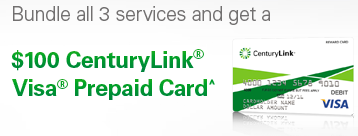
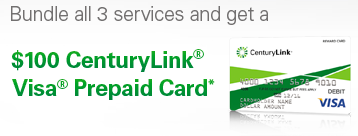
reverting back to BS

diff --git a/offers/threeyears/disclaimer.html b/offers/threeyears/disclaimer.html
@@ -20,7 +20,7 @@
 		<strong>Offer ends 7/23/2014. New DIRECTV customers and residential CenturyLink<sup>&reg;</sup> customers only. The CenturyLink 3-Year Triple Play Price Guarantee Offer applies only to the monthly recurring charge for the three listed services for thirty-six consecutive months (after which the standard monthly recurring rate will apply to each service); excludes all taxes, fees, surcharges, monthly recurring fees for modem/router, professional installation charges, DIRECTV equipment charges, and any additional charges including DIRECTV programming, premium, Pay Per View, Video On Demand, or feature or service charges. The offer includes CenturyLink<sup>&reg;</sup> High-Speed Internet service (up to 12 Mbps), CenturyLink<sup>&reg;</sup> Home Phone with  Unlimited Nationwide Calling and qualifying DIRECTV and one of the following, qualifying DIRECTV Packages: ENTERTAINMENT, CHOICE, XTRA, ULTIMATE, or PREMIER. Offer requires customer to remain in good standing and terminates if customer changes their account in any manner including any change to the required CenturyLink or DIRECTV services (cancelled, upgraded, downgraded), telephone number change, or change of physical location of any installed service (including customer moving from residence of installed services). One offer only per account. An additional monthly or flat fee, installation fee, and separate shipping and handling fee may apply to customer&rsquo;s modem or router, depending on HSI package and options selected. Offer cannot be combined with any other offers. General &ndash;</strong> Services and offers not available everywhere. CenturyLink may change, cancel, or substitute offers and services, including Price Guarantee Offer, or vary them by service area, at its sole discretion without notice. Requires credit approval and deposit may be required. Additional restrictions apply. <strong>Terms and Conditions &ndash;</strong> All products and services listed are governed by tariffs, terms of service, or terms and conditions posted at centurylink.com. <strong>Taxes, Fees, and Surcharges &ndash;</strong> Applicable taxes, fees, and surcharges include a Carrier Universal Service Charge, National Access Fee or Carrier Cost Recovery surcharge, a one-time High-Speed Internet activation fee, a one-time voice service activation fee, and state and local fees that vary by area and certain in-state surcharges. Cost recovery fees are not taxes or government-required charges for use. Taxes, fees, and surcharges apply based on standard monthly, not promotional, rates. Call for a listing of applicable taxes, fees, and surcharges. <strong>Monthly Rate &ndash;</strong> Monthly rate applies while customer subscribes to all qualifying services. If one or more services are cancelled, the standard monthly fee will apply to each remaining service. <strong>High-Speed Internet &ndash;</strong> Customers must accept High-Speed Internet Subscriber Agreement prior to using service. Listed broadband speeds vary due to conditions outside of network control, including customer location and equipment, and are not guaranteed. <strong>Private, Direct Connection and Speed Claims &ndash;</strong> Direct connection and/or speed claims are based on providing High-Speed Internet customers with a dedicated, virtual-circuit connection between their homes and the CenturyLink central office. <strong>Home Phone with Unlimited Nationwide Calling &ndash;</strong> Service applies to one residential phone line with direct-dial, local and nationwide long distance voice calling from home phone, including Alaska, Puerto Rico, Guam, and U.S. Virgin Islands; excludes commercial use, call center, data and facsimile services (including dial-up Internet connections, data services, and facsimile; each may be billed at $0.10/minute), conference lines, directory and operator assistance, chat lines, pay-per-call, calling card use, or multi-housing units. Usage will be monitored for compliance and service may be suspended/terminated for noncompliance. An additional charge may be assessed to customer if usage consistently exceeds 5,000 minutes/mo. International calling billed separately. <strong>Norton&trade; AntiVirus Online &ndash;</strong> With these services, customer receives the right to use the products on the specified number of PCs during customer&rsquo;s subscription term with CenturyLink, which begins upon initial installation and activation of the product. These services include protection updates and/or new product features as available throughout the subscription term, subject to acceptance of either the Norton License Agreement or Terms of Service, whichever is applicable, included with these products and available for review at www.symantec.com. Features may be added, modified, or removed during the service period. Customers subscribing to CenturyLink<sup>&reg;</sup> Internet basic service (without features) or other ISPs are not eligible for Norton<sup>&trade;</sup> AntiVirus Online. &copy;2014 Symantec Corporation. All rights reserved. Symantec Logo, the Checkmark Logo, Norton, and Norton 360 are trademarks or registered trademarks of Symantec Corporation or its affiliates in the U.S. and other countries. <strong>DIRECTV &ndash;</strong> Service provided by DIRECTV. <strong>&dagger;PROGRAMMING OFFER: IF BY THE END OF PROMOTIONAL PRICE PERIOD(S) CUSTOMER DOES NOT CONTACT DIRECTV TO CHANGE SERVICE THEN ALL SERVICES WILL AUTOMATICALLY CONTINUE AT THE THEN-PREVAILING RATES.</strong> Free HBO, STARZ, SHOWTIME and Cinemax for three months with CHOICE package and above, a value of $144. FREE HBO and SHOWTIME for three months with ENTERTAINMENT package, a value of $90. LIMIT ONE PROGRAMMING OFFER PER ACCOUNT. Featured package name and price: ENTERTAINMENT $57.99/mo.; CHOICE $66.99/mo.; XTRA $73.99/mo.; ULTIMATE $81.99/mo.; PREMIER $129.99/ mo. <strong>Price includes a $8.50/mo. instant bill credit for 36 months.</strong> Account must be in &ldquo;good standing&rdquo; as determined by DIRECTV in its sole discretion to remain eligible for all offers. <strong>**<u>24-MONTH AGREEMENT</u>: EARLY CANCELLATION WILL RESULT IN A FEE OF $20/MONTH FOR EACH REMAINING MONTH.</strong> Must maintain 24 consecutive months of any DIRECTV base programming package ($29.99/mo. or above) or any qualifying international service bundle. Advanced Receiver-DVR fee ($10/mo.) required for DVR lease. Advanced Receiver-HD fee ($10/mo.) required for HD Receiver lease. Advanced Receiver fee ($25/mo.) required for Genie HD DVR,  HD DVR and TiVo HD DVR from DIRECTV lease. TiVo service fee ($5/mo.) required for TiVo HD DVR from DIRECTV lease. If you have 2 Receivers and/or one Receiver and a Genie Mini Client/Enabled TV/Device, the fee is $6/mo. For the 3rd and each additional Receiver and/or Genie Mini Client/Enabled TV/Device on your account, you are charged an additional fee of $6/mo. per Receiver, Genie Mini and/or Enabled TV/Device. <strong>NON-ACTIVATION CHARGE OF $150 PER RECEIVER MAY APPLY. ALL EQUIPMENT IS LEASED AND MUST BE RETURNED TO DIRECTV UPON CANCELLATION, OR UNRETURNED EQUIPMENT FEES APPLY. VISIT directv.com/legal OR CALL 1-800-DIRECTV FOR DETAILS. ^<u>GENIE HD DVR UPGRADE OFFER</u>:</strong> Includes instant rebates on one Genie HD DVR and up to 3 DIRECTV Minis with activation of the SELECT Package or above; &Oacute;PTIMO M&Aacute;S Package or above; or any qualifying international service bundle, which shall include the PREFERRED CHOICE programming package. <strong>A $99 fee applies for Wireless Genie Mini (model C41W) upgrade.</strong> Whole-Home HD DVR functionality requires a Genie HD DVR connected to the primary television and a Genie Mini,  H25 HD Receiver(s) or an RVU-capable TV/Device in each additional room. Limit of three remote viewings per Genie HD DVR at a time. Visit directv.com/genie for complete details. <strong><u>INSTALLATION</u></strong>: Standard professional installation in up to four rooms only. Custom installation extra. To access DIRECTV HD programming, HD equipment required. Number of HD channels based on package selection. Customer Satisfaction based on 2013 American Customer Satisfaction Index. Eligibility for local channels based on service address. Not all networks available in all markets. Programming, pricing, terms and conditions subject to change at any time. Pricing residential. Taxes not included. Receipt of DIRECTV programming subject to DIRECTV Customer Agreement; copy provided at directv.com/legal and in order confirmation. DIRECTV and the Cyclone Design logo, CHOICE, GENIE and PREMIER are trademarks of DIRECTV, LLC. All other trademarks and service marks are the property of their respective owners.
 	</p>
 	<p>
-		<strong>^$100 CenturyLink Visa Prepaid Card &ndash;</strong> Limited time offer only. Offer may not be available in all areas and may require credit approval. Offer is available to new or existing (qualifying and residential) customers only. If the service promotional offer requires new subscriptions, the customer must be new to CenturyLink and subscribe to a qualifying High-Speed Internet (HSI) and two additional Qualifying Services (see below). Existing CenturyLink customers who subscribe to a qualifying HSI plan (or qualifying Home Phone [Voice] service) must purchase two additional Qualifying Services (one of the three service subscriptions must be HSI).  Qualifying Services include eligible subscriptions for new (if required per offer) or existing Voice, HSI, certain Security services through CenturyLink and/or Prism&trade; TV (12-month-term agreement); or a new Verizon Wireless customer (2-year-plan agreement), and/or new DIRECTV customer (24-month-term agreement) through CenturyLink. Offer not available to customers with CenturyLink&reg; Internet Basic service (without features) or with other ISPs. Customer must activate services within 30 days of order and must retain all eligible services for a minimum of eight weeks after service activation. Customer will receive a postcard within three to four weeks of activating services and will be required to complete online redemption form within 60 days after ordering services. Visa Prepaid Card will be sent 6-8 weeks after all eligibility, redemption and retention requirements have been met, including eight week service hold requirement. Account must be current and in good credit standing. One prepaid card per account per 12 months. Offer cannot be combined with other CenturyLink High-Speed Internet reward/award/promotion cards/codes unless otherwise allowed. CenturyLink may change the form of payment, vendor, etc., at their discretion when fulfilling the promotional offer. The Visa Prepaid Card is not redeemable for cash or usable at any ATM. Terms and Conditions apply to the card. Subject to applicable law, a monthly maintenance fee of $3 (USD) applies, but is waived for the first six months after the card is issued. This card is issued by MetaBank&reg;, Member FDIC, pursuant to a license from Visa U.S.A., Inc. Prepaid cards can be used anywhere Visa debit cards are accepted.
+		<strong>*$100 CenturyLink Visa Prepaid Card &ndash;</strong> Limited time offer only. Offer may not be available in all areas and may require credit approval. Offer is available to new or existing (qualifying and residential) customers only. If the service promotional offer requires new subscriptions, the customer must be new to CenturyLink and subscribe to a qualifying High-Speed Internet (HSI) and two additional Qualifying Services (see below). Existing CenturyLink customers who subscribe to a qualifying HSI plan (or qualifying Home Phone [Voice] service) must purchase two additional Qualifying Services (one of the three service subscriptions must be HSI).  Qualifying Services include eligible subscriptions for new (if required per offer) or existing Voice, HSI, certain Security services through CenturyLink and/or Prism&trade; TV (12-month-term agreement); or a new Verizon Wireless customer (2-year-plan agreement), and/or new DIRECTV customer (24-month-term agreement) through CenturyLink. Offer not available to customers with CenturyLink&reg; Internet Basic service (without features) or with other ISPs. Customer must activate services within 30 days of order and must retain all eligible services for a minimum of eight weeks after service activation. Customer will receive a postcard within three to four weeks of activating services and will be required to complete online redemption form within 60 days after ordering services. Visa Prepaid Card will be sent 6-8 weeks after all eligibility, redemption and retention requirements have been met, including eight week service hold requirement. Account must be current and in good credit standing. One prepaid card per account per 12 months. Offer cannot be combined with other CenturyLink High-Speed Internet reward/award/promotion cards/codes unless otherwise allowed. CenturyLink may change the form of payment, vendor, etc., at their discretion when fulfilling the promotional offer. The Visa Prepaid Card is not redeemable for cash or usable at any ATM. Terms and Conditions apply to the card. Subject to applicable law, a monthly maintenance fee of $3 (USD) applies, but is waived for the first six months after the card is issued. This card is issued by MetaBank&reg;, Member FDIC, pursuant to a license from Visa U.S.A., Inc. Prepaid cards can be used anywhere Visa debit cards are accepted.
 	</p>
 </div>
 

diff --git a/offers/tripleplay/disclaimer.html b/offers/tripleplay/disclaimer.html
@@ -17,7 +17,7 @@
 
 	<div id="disclaimer">
 		<p>
-			<strong>^$100 CenturyLink Visa Prepaid Card &ndash;</strong> Limited time offer only. Offer may not be available in all areas and may require credit approval. Offer is available to new or existing (qualifying and residential) customers only. If the service promotional offer requires new subscriptions, the customer must be new to CenturyLink and subscribe to a qualifying High-Speed Internet (HSI) and two additional Qualifying Services (see below). Existing CenturyLink customers who subscribe to a qualifying HSI plan (or qualifying Home Phone [Voice] service) must purchase two additional Qualifying Services (one of the three service subscriptions must be HSI).  Qualifying Services include eligible subscriptions for new (if required per offer) or existing Voice, HSI, certain Security services through CenturyLink and/or Prism&trade; TV (12-month-term agreement); or a new Verizon Wireless customer (2-year-plan agreement), and/or new DIRECTV customer (24-month-term agreement) through CenturyLink. Offer not available to customers with CenturyLink&reg; Internet Basic service (without features) or with other ISPs. Customer must activate services within 30 days of order and must retain all eligible services for a minimum of eight weeks after service activation. Customer will receive a postcard within three to four weeks of activating services and will be required to complete online redemption form within 60 days after ordering services. Visa Prepaid Card will be sent 6-8 weeks after all eligibility, redemption and retention requirements have been met, including eight week service hold requirement. Account must be current and in good credit standing. One prepaid card per account per 12 months. Offer cannot be combined with other CenturyLink High-Speed Internet reward/award/promotion cards/codes unless otherwise allowed. CenturyLink may change the form of payment, vendor, etc., at their discretion when fulfilling the promotional offer. The Visa Prepaid Card is not redeemable for cash or usable at any ATM. Terms and Conditions apply to the card. Subject to applicable law, a monthly maintenance fee of $3 (USD) applies, but is waived for the first six months after the card is issued. This card is issued by MetaBank&reg;, Member FDIC, pursuant to a license from Visa U.S.A., Inc. Prepaid cards can be used anywhere Visa debit cards are accepted.
+			<strong>*$100 CenturyLink Visa Prepaid Card &ndash;</strong> Limited time offer only. Offer may not be available in all areas and may require credit approval. Offer is available to new or existing (qualifying and residential) customers only. If the service promotional offer requires new subscriptions, the customer must be new to CenturyLink and subscribe to a qualifying High-Speed Internet (HSI) and two additional Qualifying Services (see below). Existing CenturyLink customers who subscribe to a qualifying HSI plan (or qualifying Home Phone [Voice] service) must purchase two additional Qualifying Services (one of the three service subscriptions must be HSI).  Qualifying Services include eligible subscriptions for new (if required per offer) or existing Voice, HSI, certain Security services through CenturyLink and/or Prism&trade; TV (12-month-term agreement); or a new Verizon Wireless customer (2-year-plan agreement), and/or new DIRECTV customer (24-month-term agreement) through CenturyLink. Offer not available to customers with CenturyLink&reg; Internet Basic service (without features) or with other ISPs. Customer must activate services within 30 days of order and must retain all eligible services for a minimum of eight weeks after service activation. Customer will receive a postcard within three to four weeks of activating services and will be required to complete online redemption form within 60 days after ordering services. Visa Prepaid Card will be sent 6-8 weeks after all eligibility, redemption and retention requirements have been met, including eight week service hold requirement. Account must be current and in good credit standing. One prepaid card per account per 12 months. Offer cannot be combined with other CenturyLink High-Speed Internet reward/award/promotion cards/codes unless otherwise allowed. CenturyLink may change the form of payment, vendor, etc., at their discretion when fulfilling the promotional offer. The Visa Prepaid Card is not redeemable for cash or usable at any ATM. Terms and Conditions apply to the card. Subject to applicable law, a monthly maintenance fee of $3 (USD) applies, but is waived for the first six months after the card is issued. This card is issued by MetaBank&reg;, Member FDIC, pursuant to a license from Visa U.S.A., Inc. Prepaid cards can be used anywhere Visa debit cards are accepted.
 		</p>
 		<p>
 			<strong>Offer ends 7/23/2014. New DIRECTV customers and residential CenturyLink customers only. The CenturyLink 3-Year Triple Play Price Guarantee Offer applies only to the monthly recurring charge for the three listed services for thirty-six consecutive months (after which the standard monthly recurring rate will apply to each service); excludes all taxes, fees, surcharges, monthly recurring fees for modem/router, professional installation charges, DIRECTV equipment charges, and any additional charges including DIRECTV programming, premium, Pay Per View, Video On-Demand, or feature or service charges. The offer includes CenturyLink<sup>&reg;</sup> High-Speed Internet service (up to 10 Mbps), CenturyLink<sup>&reg;</sup> Home Phone with  Unlimited Nationwide Calling and qualifying DIRECTV and one of the following, qualifying DIRECTV Packages: ENTERTAINMENT; CHOICE; XTRA; ULTIMATE; or PREMIER. Offer requires customer to remain in good standing and terminates if customer changes their account in any manner including any change to the required CenturyLink or DIRECTV services (cancelled, upgraded, downgraded), telephone number change, or change of physical location of any installed service (including customer moving from residence of installed services). One offer only per account. An additional monthly or flat fee, installation fee, and separate shipping and handling fee may apply to customer&rsquo;s modem or router, depending on HSI package and options selected. Offer cannot be combined with any other offers. General &ndash;</strong> Services and offers not available everywhere. CenturyLink may change, cancel, or substitute offers and services, including Price Guarantee Offer, or vary them by service area, at its sole discretion without notice. Requires credit approval and deposit may be required. Additional restrictions apply. <strong>Terms and Conditions &ndash;</strong> All products and services listed are governed by tariffs, terms of service, or terms and conditions posted at centurylink.com. <strong>Taxes, Fees, and Surcharges &ndash;</strong> Applicable taxes, fees, and surcharges include a Carrier Universal Service Charge, National Access Fee or Carrier Cost Recovery surcharge, a one-time High-Speed Internet activation fee, a one-time voice service activation fee, and state and local fees that vary by area and certain in-state surcharges. Cost recovery fees are not taxes or government-required charges for use. Taxes, fees, and surcharges apply based on standard monthly, not promotional, rates. Call for a listing of applicable taxes, fees, and surcharges. <strong>Monthly Rate &ndash;</strong> Monthly rate applies while customer subscribes to all qualifying services. If one or more services are cancelled, the standard monthly fee will apply to each remaining service. <strong>High-Speed Internet &ndash;</strong> Customers must accept High-Speed Internet Subscriber Agreement prior to using service. Listed broadband speeds vary due to conditions outside of network control, including customer location and equipment, and are not guaranteed. <strong>Private, Direct Connection and Speed Claims &ndash;</strong> Direct connection and/or speed claims are based on providing High-Speed Internet customers with a dedicated, virtual-circuit connection between their homes and the CenturyLink central office. <strong>Home Phone with Unlimited Nationwide Calling &ndash;</strong> Service applies to one residential phone line with direct-dial, local and nationwide long distance voice calling from home phone, including Alaska, Puerto Rico, Guam, and U.S. Virgin Islands; excludes commercial use, call center, data and facsimile services (including dial-up Internet connections, data services, and facsimile; each may be billed at $0.10/minute), conference lines, directory and operator assistance, chat lines, pay-per-call, calling card use, or multi-housing units. Usage will be monitored for compliance and service may be suspended/terminated for noncompliance. An additional charge may be assessed to customer if usage consistently exceeds 5,000 minutes/mo. International calling billed separately. <strong>Norton&trade; AntiVirus Online &ndash;</strong> With these services, customer receives the right to use the products on the specified number of PCs during customer&rsquo;s subscription term with CenturyLink, which begins upon initial installation and activation of the product. These services include protection updates and/or new product features as available throughout the subscription term, subject to acceptance of either the Norton License Agreement or Terms of Service, whichever is applicable, included with these products and available for review at www.symantec.com. Features may be added, modified, or removed during the service period. Customers subscribing to CenturyLink<sup>&reg;</sup> Internet basic service (without features) or other ISPs are not eligible for Norton<sup>&trade;</sup> AntiVirus Online. &copy;2014 Symantec Corporation. All rights reserved. Symantec Logo, the Checkmark Logo, Norton, and Norton 360 are trademarks or registered trademarks of Symantec Corporation or its affiliates in the U.S. and other countries. <strong>DIRECTV &ndash;</strong> Service provided by <strong>DIRECTV. &dagger;PROGRAMMING OFFER: IF BY THE END OF PROMOTIONAL PRICE PERIOD(S) CUSTOMER DOES NOT CONTACT DIRECTV TO CHANGE SERVICE THEN ALL SERVICES WILL AUTOMATICALLY CONTINUE AT THE THEN-PREVAILING RATES.</strong> Free HBO, STARZ, SHOWTIME and Cinemax for three months with CHOICE package and above, a value of $144. FREE HBO and SHOWTIME with ENTERTAINMENT package, a value of $90. LIMIT ONE PROGRAMMING OFFER PER ACCOUNT. Featured package name and price: ENTERTAINMENT $57.99/mo.; CHOICE $66.99/mo.; XTRA $73.99/mo.; ULTIMATE $81.99/mo.; PREMIER $129.99/mo. <strong>Price includes a $8.50 /mo. instant bill credit for 36 months.</strong> Account must be in &ldquo;good standing&rdquo; as determined by DIRECTV in its sole discretion to remain eligible for all offers. <strong>**<u>24-MONTH AGREEMENT</u>: EARLY CANCELLATION WILL RESULT IN A FEE OF $20/MONTH FOR EACH REMAINING MONTH.</strong> Must maintain 24 consecutive months of any DIRECTV base programming package ($29.99/mo. or above) or any qualifying international service bundle. Advanced Receiver-DVR fee ($10/mo.) required for DVR lease. Advanced Receiver-HD fee ($10/mo.) required for HD Receiver lease. Advanced Receiver fee ($25/mo.) required for Genie HD DVR,  HD DVR and TiVo HD DVR from DIRECTV lease. TiVo service fee ($5/mo.) required for TiVo HD DVR from DIRECTV lease. If you have 2 Receivers and/or one Receiver and a Genie Mini Client/Enabled TV/Device, the fee is $6/mo. For the 3rd and each additional Receiver and/or Genie Mini Client/Enabled TV/Device on your account, you are charged an additional fee of $6/mo. per Receiver, Genie Mini and/or Enabled TV/Device. <strong>NON-ACTIVATION CHARGE OF $150 PER RECEIVER MAY APPLY. ALL EQUIPMENT IS LEASED AND MUST BE RETURNED TO DIRECTV UPON CANCELLATION, OR UNRETURNED EQUIPMENT FEES APPLY. VISIT directv.com/legal OR CALL 1-800-DIRECTV FOR DETAILS. ^<u>GENIE HD DVR UPGRADE OFFER</u></strong>: Includes instant rebates on one Genie HD DVR and up to 3 DIRECTV Minis with activation of the SELECT Package or above; &Oacute;PTIMO M&Aacute;S Package or above; or any qualifying international service bundle, which shall include the PREFERRED CHOICE programming package. <strong>A $99 fee applies for Wireless Genie Mini (model C41W) upgrade</strong>. Whole-Home HD DVR functionality requires a Genie HD DVR connected to the primary television and a Genie Mini,  H25 HD Receiver(s) or an RVU-capable TV/Device in each additional room. Limit of three remote viewings per Genie HD DVR at a time. Visit directv.com/genie for complete details. <strong><u>INSTALLATION</u></strong>: Standard professional installation in up to four rooms only. Custom installation extra. To access DIRECTV HD programming, HD equipment required. Number of HD channels based on package selection. Customer Satisfaction based on 2013 American Customer Satisfaction Index. Eligibility for local channels based on service address. Not all networks available in all markets. Programming, pricing, terms and conditions subject to change at any time. Pricing residential. Taxes not included. Receipt of DIRECTV programming subject to DIRECTV Customer Agreement; copy provided at directv.com/legal and in order confirmation. DIRECTV and the Cyclone Design logo, CHOICE, GENIE and PREMIER are trademarks of DIRECTV, LLC. All other trademarks and service marks are the property of their respective owners.

diff --git a/offers/tripleplay/index.php b/offers/tripleplay/index.php
@@ -44,7 +44,7 @@ $c2c_buttonname = 'chat-centurylink-residential-customer-support-triple'; //LCTL
 			<div class="pageHeader">
 				<h1 class="ir">the power of 3 | DIRECTV service + Internet + Home Phone</h1>
 				<div class="headCta non150pp" style="background: transparent url('images/ctl-prepaidvisa-v4.png') no-repeat 15px 25px;">
-					<h2 class="abir">Bundle all 3 services and get a Centurylink&reg; Visa&reg; Prepaid Card^</h2>
+					<h2 class="abir">Bundle all 3 services and get a Centurylink&reg; Visa&reg; Prepaid Card*</h2>
 					<div id="<?php echo $c2c_buttonname; ?>" class="chatBtn"> </div>
 				</div>
 				<h3 class="snipe ir">NEW!</h3>
@@ -119,7 +119,7 @@ $c2c_buttonname = 'chat-centurylink-residential-customer-support-triple'; //LCTL
 	</div>
 	<div class="pageSubFoot">
 		<p class="discliamer col">
-			Other fees and conditions may apply. <a class="popupTrigger" target="_blank" href="<?php echo $disclaimer; ?>">Click here for details.</a> <br>
+			*Other fees and conditions may apply. <a class="popupTrigger" target="_blank" href="<?php echo $disclaimer; ?>">Click here for details.</a> <br>
 			<br />
 			Limited time offer. New approved customers only. Conditions apply. 24-month DIRECTV agreement required.**  <br />
 			Credit card required (except in PA). Hardware and programming available separately. Additional fees required.  <br />

diff --git a/offers/threeyears/index.php b/offers/threeyears/index.php
@@ -41,7 +41,7 @@ $c2c_buttonname = 'chat-residential-english-triple'; //LQ
 			<div class="pageHeader">
 				<h1 class="ir">the power of 3 | DIRECTV service + Internet + Home Phone</h1>
 				<div class="headCta" style="background: transparent url('images/ctl-prepaidvisa-v4.png') no-repeat 15px 25px;">
-					<h2 class="abir">Bundle all 3 services and get a $100 CenturyLink&trade; Visa&reg; Prepaid Card^</h2>
+					<h2 class="abir">Bundle all 3 services and get a $100 CenturyLink&trade; Visa&reg; Prepaid Card*</h2>
 					<div id="<?php echo $c2c_buttonname; ?>" class="chatBtn"> </div>
 				</div>
 				<h3 class="snipe ir">NEW!</h3>
